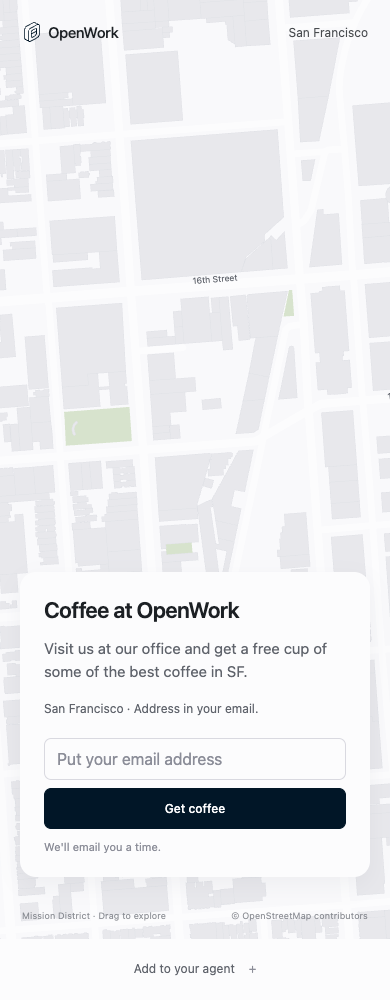
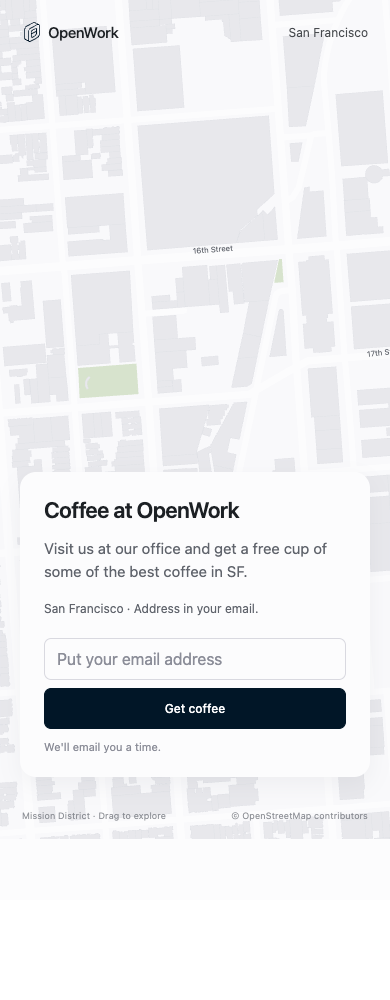
feat(coffee): make the website install-only and keep the map in MCP

diff --git a/ui/coffee.spec.ts b/ui/coffee.spec.ts
@@ -137,45 +137,88 @@ test("email supplied by the agent books directly and hydrates the filled receipt
 
 test("uses the real OpenWork logo, app branding and office invitation", async ({
   page,
+  request,
 }) => {
-  await page.goto("/sf");
-  await expect(page.locator(".wordmark")).toHaveText("OpenWork");
-  await expect(page.locator(".brand-logo")).toBeVisible();
+  const result = await rpc(request, "tools/call", {
+    name: "grab_coffee",
+    arguments: {},
+  });
+  const frame = await host(page, request, result);
+  await expect(frame.locator(".wordmark")).toHaveText("OpenWork");
+  await expect(frame.locator(".brand-logo")).toBeVisible();
   expect(
-    await page
+    await frame
       .locator(".brand-logo")
       .evaluate(
         (image: HTMLImageElement) => image.complete && image.naturalWidth > 0,
       ),
   ).toBeTruthy();
-  await expect(page.locator(".brand-logo")).toHaveCSS("width", "20px");
-  await expect(page.locator("#submit")).toHaveCSS(
+  await expect(frame.locator(".brand-logo")).toHaveCSS("width", "20px");
+  await expect(frame.locator("#submit")).toHaveCSS(
     "background-color",
     "rgb(1, 22, 39)",
   );
-  await expect(page.locator(".invitation")).toHaveText(
+  await expect(frame.locator(".invitation")).toHaveText(
     "Visit us at our office and get a free cup of some of the best coffee in SF.",
   );
-  await expect(page.locator("#stage")).toHaveClass(/scene-ready/);
-  await page.screenshot({ path: "docs/idle.png" });
+  await expect(frame.locator("#stage")).toHaveClass(/scene-ready/);
+  await expect(frame.locator("#install")).toBeHidden();
+  await page.screenshot({ path: "docs/app.png" });
 });
 
-test("mobile invitation stays readable without horizontal overflow", async ({
+test("mobile MCP invitation stays readable without horizontal overflow", async ({
   page,
+  request,
 }) => {
   await page.setViewportSize({ width: 390, height: 1000 });
-  await page.goto("/sf");
-  await expect(page.locator("#stage")).toHaveClass(/scene-ready/, {
-    timeout: 40000,
+  const result = await rpc(request, "tools/call", {
+    name: "grab_coffee",
+    arguments: {},
   });
-  await expect(page.locator("#email")).toBeVisible();
-  await expect(page.locator("#submit")).toBeVisible();
+  const frame = await host(page, request, result);
+  await expect(frame.locator("#stage")).toHaveClass(/scene-ready/);
+  await expect(frame.locator("#email")).toBeVisible();
+  await expect(frame.locator("#submit")).toBeVisible();
+  expect(
+    await frame
+      .locator("body")
+      .evaluate(() => document.documentElement.scrollWidth <= innerWidth),
+  ).toBeTruthy();
+  await page.screenshot({ path: "docs/mobile.png" });
+});
+
+test("the public website shows only install instructions, not the MCP map or form", async ({
+  page,
+}) => {
+  await page.goto("/sf");
+  await expect(page.locator("#install")).toBeVisible();
+  await expect(page.locator("details")).toHaveAttribute("open", "");
+  await expect(page.locator("#stage")).toBeHidden();
+  await expect(page.locator("#email")).toBeHidden();
+  await expect(page.locator("#scene svg")).toHaveCount(0);
+  await expect(page.locator("#mcp-url")).toContainText("/sf");
+  await expect(page.locator(".snippet pre")).toContainText(
+    "claude mcp add --transport http coffee",
+  );
+  for (const name of [
+    "Claude Code",
+    "Cursor",
+    "Codex",
+    "VS Code",
+    "OpenWork",
+    "Claude.ai / ChatGPT",
+  ]) {
+    await expect(page.getByRole("tab", { name, exact: true })).toBeVisible();
+  }
+  await page.screenshot({ path: "docs/idle.png" });
+  await page.setViewportSize({ width: 390, height: 850 });
+  await expect(page.locator("#stage")).toBeHidden();
   expect(
     await page.evaluate(
       () => document.documentElement.scrollWidth <= innerWidth,
     ),
   ).toBeTruthy();
-  await page.screenshot({ path: "docs/mobile.png" });
+  await page.screenshot({ path: "docs/install-mobile.png" });
 });
 
 test("a failed invite is shown honestly, with calendar links still available", async ({

diff --git a/app/main.ts b/app/main.ts
@@ -9,6 +9,10 @@ const $ = <T extends HTMLElement>(sel: string): T => {
   return el;
 };
 
+/** The browser URL is install-only; the embedded MCP view owns the map and form. */
+const standalone = window.self === window.top;
+document.body.classList.add(standalone ? "standalone" : "mcp-app");
+
 const form = $<HTMLFormElement>("#form");
 const input = $<HTMLInputElement>("#email");
 const submit = $<HTMLButtonElement>("#submit");
@@ -25,20 +29,19 @@ const stage = $<HTMLElement>("#stage");
 const status = $<HTMLElement>("#scene-status");
 $<HTMLAnchorElement>("#world-credit").href =
   "https://www.openstreetmap.org/copyright";
-const scene = createScene($<HTMLDivElement>("#scene"), {
-  reducedMotion,
-  onStatus(value) {
-    stage.classList.toggle("scene-ready", value === "ready");
-    status.textContent = {
-      loading: "Loading map…",
-      ready: "Mission District · Drag to explore",
-      fallback: "Neighborhood map",
-    }[value];
-  },
-});
-
-/** Inside an MCP host we live in an iframe; on coffee.openworklabs.com we're the page. */
-const standalone = window.self === window.top;
+const scene = standalone
+  ? undefined
+  : createScene($<HTMLDivElement>("#scene"), {
+      reducedMotion,
+      onStatus(value) {
+        stage.classList.toggle("scene-ready", value === "ready");
+        status.textContent = {
+          loading: "Loading map…",
+          ready: "Mission District · Drag to explore",
+          fallback: "Neighborhood map",
+        }[value];
+      },
+    });
 
 interface Backend {
   request(email: string): Promise<CoffeeResult>;
@@ -278,7 +281,8 @@ async function connectToHost(): Promise<void> {
 }
 
 if (standalone) {
-  document.body.classList.add("standalone");
+  document.title = "Add Coffee to your agent · OpenWork";
+  $<HTMLDetailsElement>("#install details").open = true;
   renderInstall(
     $<HTMLElement>("#install"),
     `${location.origin}${location.pathname.replace(/\/+$/, "")}`,

diff --git a/app/style.css b/app/style.css
@@ -41,6 +41,34 @@ button {
   white-space: nowrap;
   border: 0;
 }
+body:not(.mcp-app) .stage {
+  display: none;
+}
+body.standalone .install {
+  min-height: 100svh;
+  display: grid;
+  align-content: center;
+  padding: 48px 24px;
+}
+body.standalone .install-inner {
+  width: 100%;
+  max-width: 680px;
+}
+body.standalone summary {
+  justify-content: space-between;
+  font-size: 20px;
+  font-weight: 600;
+  color: var(--foreground);
+  padding: 0 0 16px;
+}
+body.standalone .install-lede {
+  margin: 0 0 22px;
+  font-size: 13px;
+}
+body.standalone .panel {
+  padding-bottom: 0;
+}
+body.standalone details[open] summary span { transform: none; }
 .stage {
   position: relative;
   isolation: isolate;

diff --git a/docs/DESIGN.md b/docs/DESIGN.md
@@ -28,7 +28,7 @@ A small utility over the real neighborhood, not a marketing landing page:
 - Small OpenWork header. One compact, bottom-centered panel holds the invitation and email field. It says the address will arrive by email.
 - System sans-serif, restrained green/gray, soft off-white panel. No oversized headings, badges, italics, stamps or faux paper receipt.
 - The booked state uses the same compact panel with a date and calendar buttons. The precise address remains in the email.
-- Setup instructions are collapsed behind one “Add to your agent” row, not a second landing-page section.
+- The public website is install-only: “Add to your agent”, the URL, client tabs and instructions, expanded by default. The map and booking form appear only in the MCP App.
 - On phones, the field and button stack. Reduced-motion disables camera drift and transitions.
 
 ## The map

diff --git a/README.md b/README.md
@@ -23,7 +23,7 @@ No API key, no sign-in. URL: `https://coffee.openworklabs.com/sf`.
 | OpenWork | Library → Add to library → Connector → Add an MCP → URL → No sign-in |
 | Other MCP clients | Add a remote Streamable HTTP server with the URL above |
 
-Opening that same URL in a browser shows the invitation and setup instructions. The standalone web form retains email verification; agents don't need it.
+Opening that URL in a browser shows only the MCP URL, client tabs and install instructions, expanded by default. The map, logo, invitation and booking form are shown only inside the MCP App. The public website never initializes the map or displays the booking form.
 
 ## Two tools, no required UI
 
